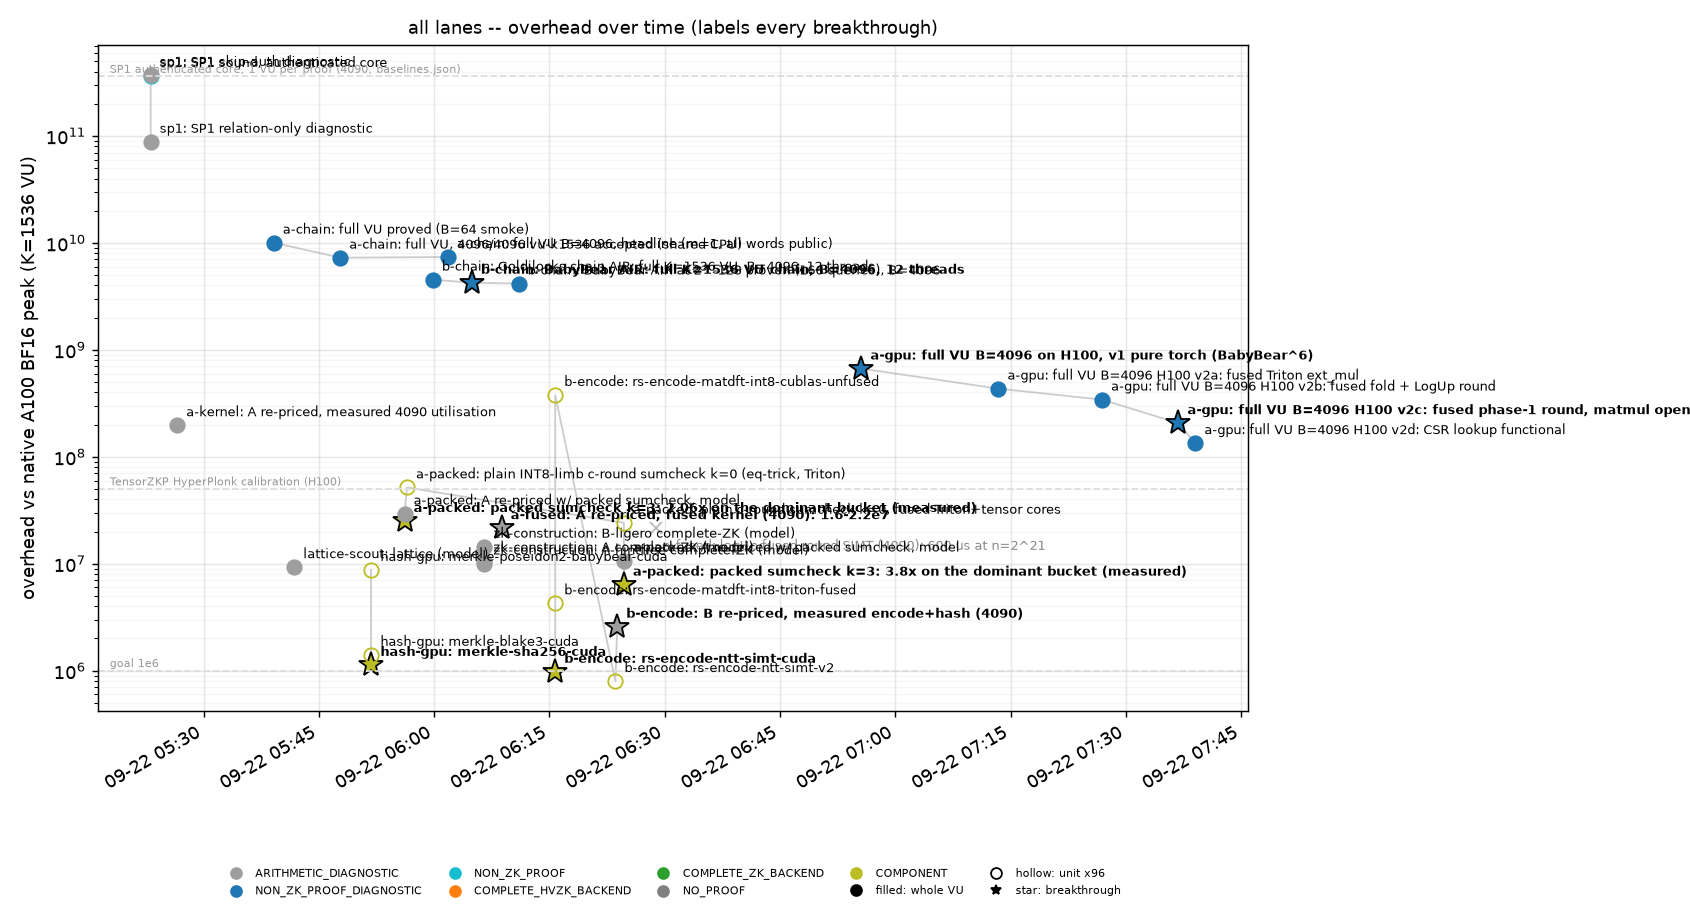
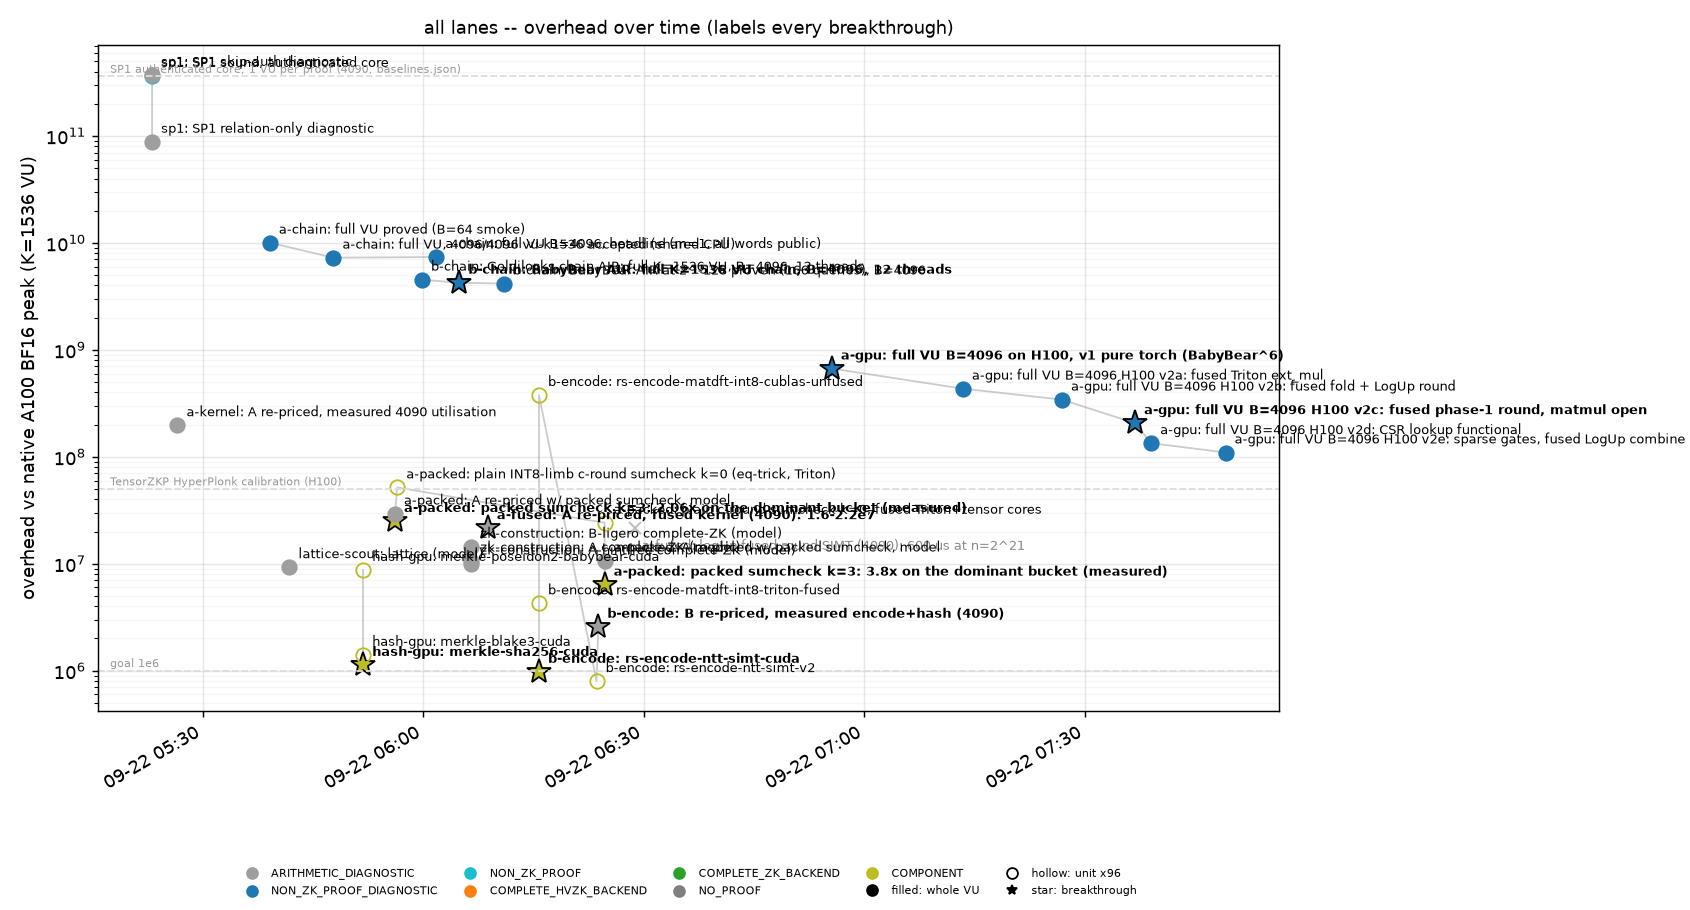
a-gpu ledger: v2e sparse gates + fused LogUp combine, 4.43 s (r20260922-074455-d0b6); README runs table + time breakdown

diff --git a/backends/gkr/gpu/README.md b/backends/gkr/gpu/README.md
@@ -15,11 +15,12 @@ it cannot check these proofs directly; the Python verifier is the same code path
 | v2a | 53ad266 | fused `ext_mul` (Montgomery SIMT) | 17.50 s | 5.48 / 5.74 / 5.74 / 0.45 | 9.4 s |
 | v2b | 581c6e5 | fused fold + LogUp degree-3 round | 13.81 s | 1.53 / 5.39 / 6.38 / 0.45 | 9.8 s |
 | v2c | 0d6437c | fused GKR phase-1 round; opening as tensor-core matmuls | 8.32 s | 1.49 / 1.85 / 4.46 / 0.45 | 8.9 s |
-| v2d | 428db0b | lookup functional as a CSR scatter kernel | **5.41 s** | 1.53 / 1.95 / 1.41 / 0.45 | 7.1 s |
+| v2d | 428db0b | lookup functional as a CSR scatter kernel | 5.41 s | 1.53 / 1.95 / 1.41 / 0.45 | 7.1 s |
+| v2e | c4d472a | sparse gate evaluation; fused LogUp level combine | **4.43 s** | 1.40 / 1.07 / 1.44 / 0.45 | 7.1 s |
 
 Every run: 4096/4096 `vu-k1536` accepted with the recorded words, proof 33.9 MB (6086 extension elements + Ligero
 opening), `rounds.sequential_depth` 438 (circuit 197, LogUp R16 435), 1920 transcript slots, peak device memory
-65.7 GB (v1-v2c) / 46.8 GB (v2d), 177.8 M committed base elements in 43 417 Ligero rows.  Reference: the CPU Rust prover, 12 threads,
+65.7 GB (v1-v2c) / 46.7 GB (v2d-e), 177.8 M committed base elements in 43 417 Ligero rows.  Reference: the CPU Rust prover, 12 threads,
 297.6 s for the same batch (Goldilocks).  The verifier is Python (transcript replay + Merkle paths in `hashlib`),
 not optimised.
 
@@ -60,14 +61,17 @@ PYTHONPATH=backends/gkr python -m gpu.run prove /tmp/bbsynth --device cpu
 `VERITY_GPU_TORCH_ONLY=1` disables every Triton kernel (the torch path is the bit-exact reference the kernels are
 tested against; `--clear` skips the commitment and opening for a clear-mode diagnostic).
 
-## Where the time goes (v2d, profiler with per-call syncs, B = 4096)
+## Where the time goes (v2e, profiler with per-call syncs, B = 4096; the wall split is 1.40 / 1.07 / 1.44 / 0.45)
 
-`Layer.eval_gates` 1.3 s (fp64 tensor-core matmuls of the layer input rows against the dense gate matrices),
-Ligero opening 1.3 s (0.84 s in the `Mᵀ (aᵀ X) M` matmuls, the rest Merkle paths + column extraction), LogUp
-level combine 0.7 s, LogUp folds 0.54 s (6562 small launches), phase-1 rounds 0.45 s, LogUp rounds 0.43 s,
-commit 0.38 s (NTT butterflies + SHA-256 Merkle via `hash_gpu`), eq tables 0.3 s.  Next: sparse gate evaluation
-(the gate matrices have a handful of terms per row, the same CSR trick as the lookup functional), int32 storage of
-the folded tables, fusing the fold into the round kernels, a batched NTT for the commitment.
+Ligero opening 1.2 s (0.84 s in the `Mᵀ (aᵀ X) M` fp64 matmuls, the rest Merkle paths + column extraction on the
+host), LogUp rounds 0.6 s (1201 sequential rounds: each is one kernel, a block-partial reduction and a
+device-to-host sync for the transcript), LogUp folds 0.6 s (6562 small launches, ~90 µs each of Python + launch
+overhead), phase-1 rounds 0.4 s (119), commit 0.4 s (NTT butterflies in torch + SHA-256 Merkle via `hash_gpu`),
+eq tables 0.3 s (152), the dense layer matrices for phase 2 0.24 s.  The prover is now dominated by the
+sequential round structure (1920 transcript slots, each a sync) and launch overhead rather than by arithmetic:
+next steps are CUDA graphs / one launch per round (fold fused into the round kernel, all five LogUp tables folded
+in one kernel), a batched NTT for the commitment, INT8 tensor-core limbs for the opening matmuls, and a compiled
+verifier (the Python verifier at 7 s is now slower than the prover).
 
 ## Kernels (`kernels.py`, all bit-exact against the torch path incl. `p-1` edge values)
 
